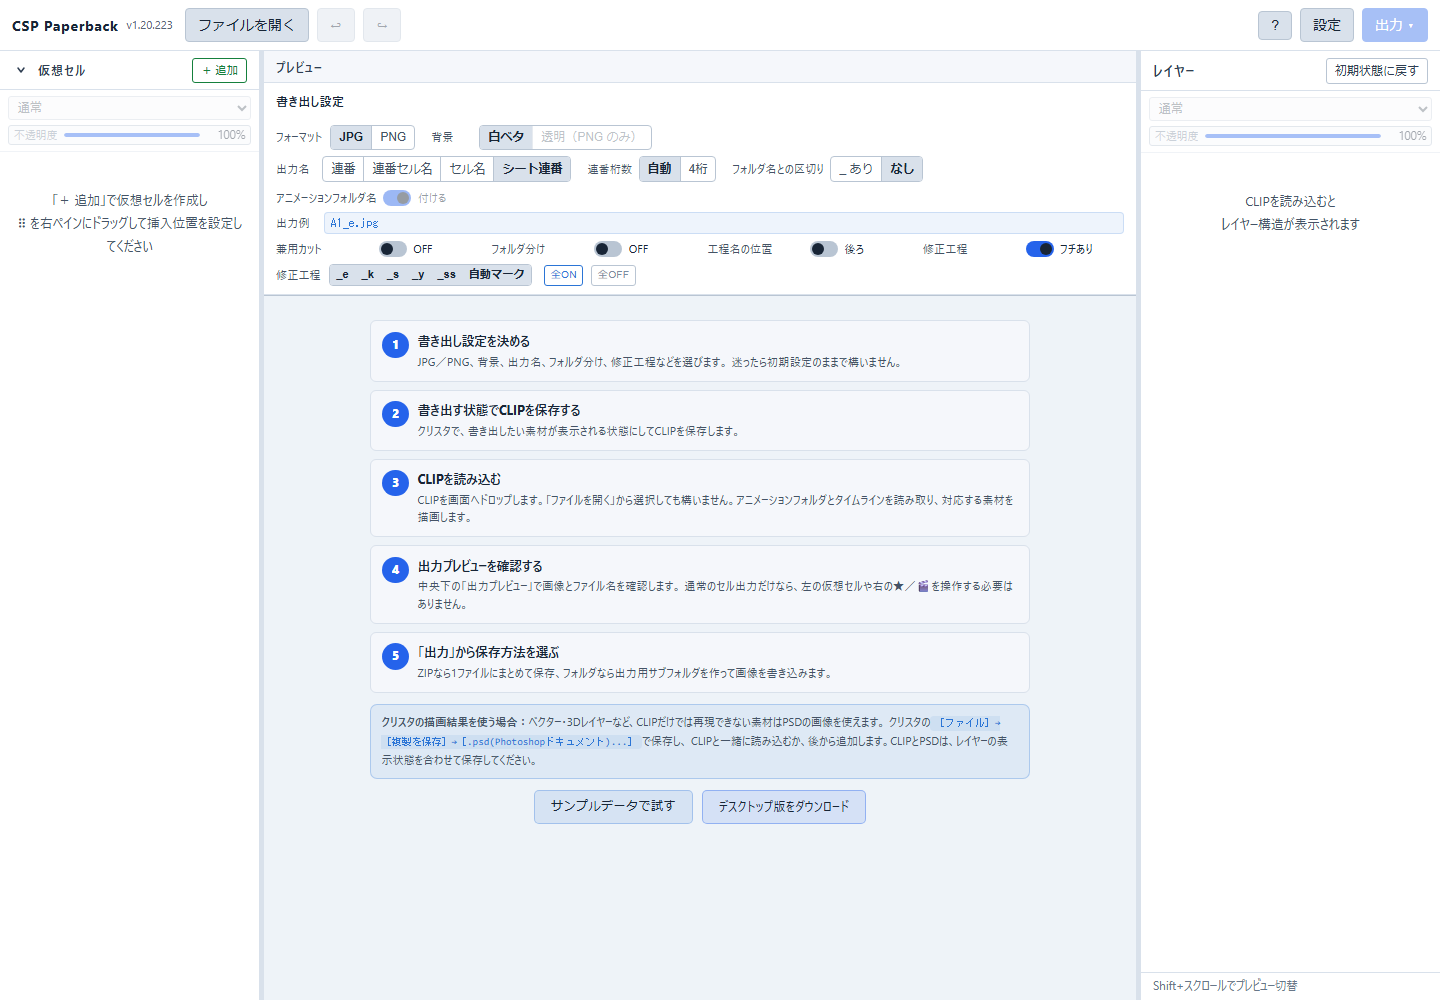
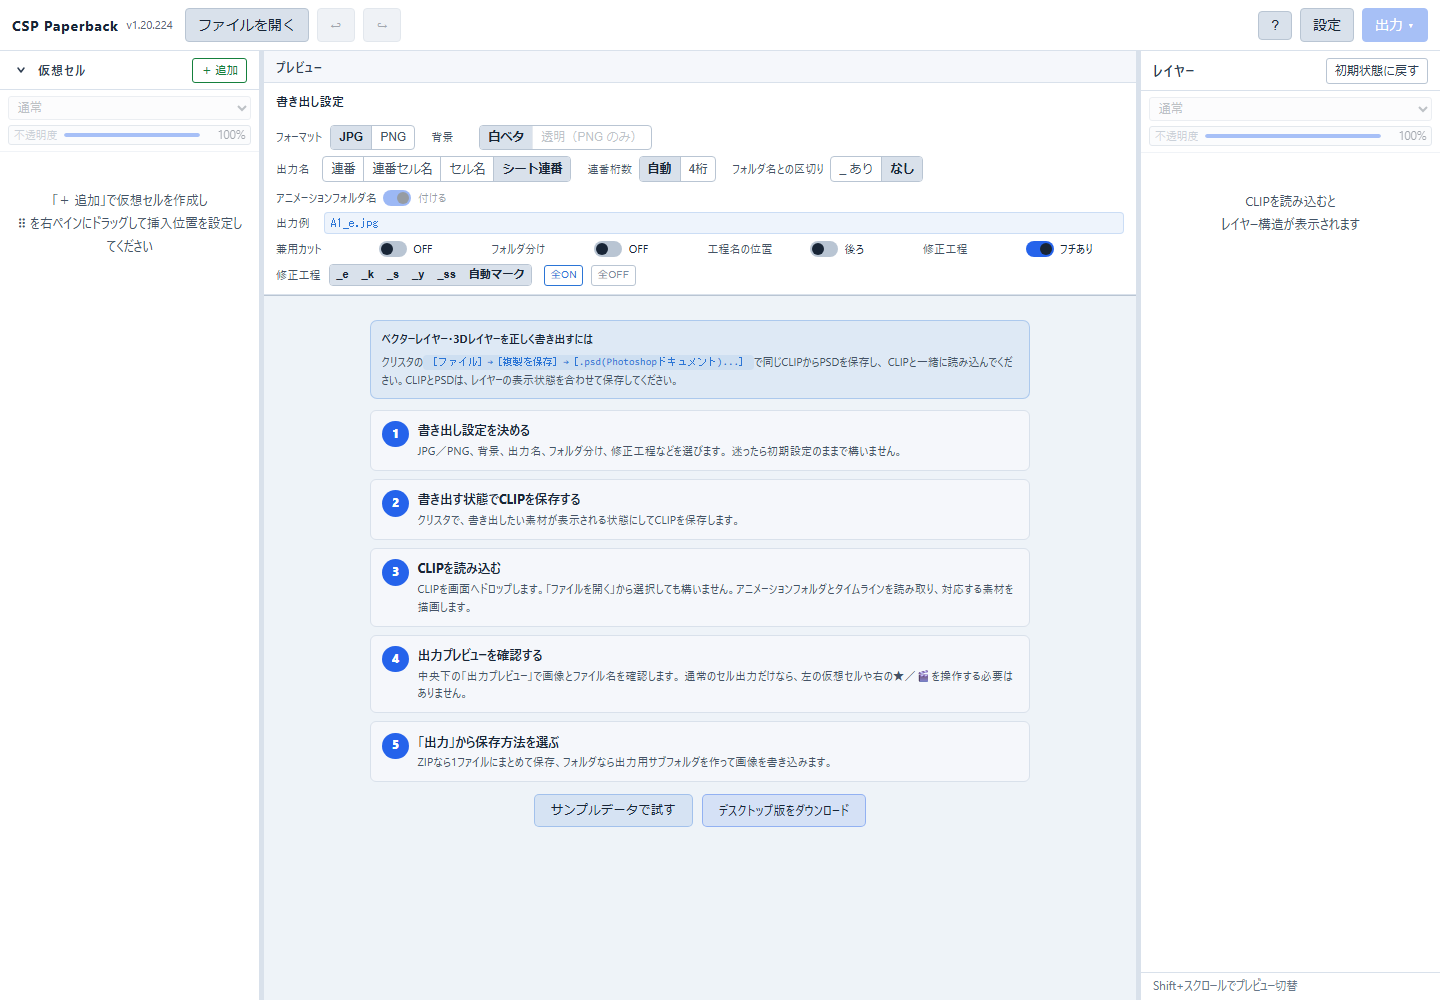
fix: exclude light-table references from CLIP materials

Changed region(s): [[0.25, 0.558, 0.7188, 0.837], [0.25, 0.31, 0.7188, 0.527]]

diff --git a/src/test/engine/clip-import.test.ts b/src/test/engine/clip-import.test.ts
@@ -59,6 +59,45 @@ describe('CLIP native structure and timeline', () => {
     expect(() => buildClipLayerTree(clip, { width: clip.width, height: clip.height }, clip.timelines[0], DEFAULT_PROJECT_SETTINGS)).toThrow('一致しません')
   })
 
+  it('excludes light-table references from the material tree without removing their source cels', async () => {
+    const db = new SQL.Database()
+    let bytes: Buffer
+    try {
+      db.run(`
+        CREATE TABLE Canvas (CanvasRootFolder INTEGER, CanvasWidth INTEGER, CanvasHeight INTEGER, CanvasUnit INTEGER);
+        INSERT INTO Canvas VALUES (1, 16, 16, 0);
+        CREATE TABLE Layer (MainId INTEGER, LayerUuid TEXT, LayerName TEXT, LayerFolder INTEGER,
+          LayerType INTEGER, LayerFirstChildIndex INTEGER, LayerNextIndex INTEGER, LayerVisibility INTEGER,
+          LightTableReferCell INTEGER, LinkLayerUUID TEXT, AnimationFolder INTEGER);
+        INSERT INTO Layer VALUES
+          (1, '', '', 1, 256, 2, 0, 1, NULL, NULL, NULL),
+          (2, '00000000000000000000000000000002', 'A', 1, 0, 3, 5, 1, NULL, NULL, 1),
+          (3, '00000000000000000000000000000003', '1', 0, 1, 0, 4, 1, NULL, NULL, NULL),
+          (4, '00000000000000000000000000000004', '2', 0, 1, 0, 0, 1, NULL, NULL, NULL),
+          (5, '00000000000000000000000000000005', '1', 0, 10016, 0, 6, 1, 1, '00000000000000000000000000000003', NULL),
+          (6, '00000000000000000000000000000006', 'frame', 0, 1, 0, 7, 1, 0, NULL, NULL),
+          (7, '00000000000000000000000000000007', 'external reference', 0, 10016, 0, 0, 1, 1, NULL, NULL);
+      `)
+      const database = db.export()
+      bytes = Buffer.alloc(40 + database.length)
+      bytes.write('CSFCHUNK')
+      bytes.write('CHNKSQLi', 24)
+      bytes.writeBigUInt64BE(BigInt(database.length), 32)
+      bytes.set(database, 40)
+    } finally { db.close() }
+    const native = await parseClipDocument(bytes, SQL, false)
+    expect(native.layers.map(l => l.name)).toEqual(['frame', 'A'])
+    expect(native.layers[1].children.map(l => l.name)).toEqual(['2', '1'])
+    expect(native.layers[1].isAnimationFolder).toBe(true)
+    expect(native.diagnostics).toEqual([])
+    const psd = { width: 16, height: 16, children: [
+      { name: 'A', children: [{ name: '1' }, { name: '2' }] }, { name: 'frame' },
+    ] }
+    const tree = buildClipLayerTree(native, psd, undefined, DEFAULT_PROJECT_SETTINGS)
+    expect(all(tree).map(l => l.originalName)).toEqual(['frame', 'A', '2', '1'])
+    expect(tree[1].children[1].id).toBe('clip:00000000000000000000000000000003')
+  })
+
   it('reads the bundled template including nine A folders and shifted motion clips', async () => {
     const template = await parseClipDocument(readFileSync('public/templates/csp-paperback-sample-template.clip'), SQL, false)
     expect(Object.keys(template.timelines[0].bindings)).toHaveLength(9)

diff --git a/src/components/help/QuickStartGuide.tsx b/src/components/help/QuickStartGuide.tsx
@@ -45,6 +45,12 @@ export function QuickStartGuide({
 
   return (
     <div className={`${styles.guide} ${styles[variant]}`}>
+      <div className={styles.callout}>
+        <strong>ベクターレイヤー・3Dレイヤーを正しく書き出すには</strong>
+        クリスタの<span className={styles.menuPath}>{ja.input.psdMenu}</span>で同じCLIPからPSDを保存し、
+        CLIPと一緒に読み込んでください。{ja.input.psdVisibility}
+      </div>
+
       <div className={styles.route}>
         <Step
           number={1}
@@ -104,13 +110,6 @@ export function QuickStartGuide({
         >
           ZIPなら1ファイルにまとめて保存、フォルダなら出力用サブフォルダを作って画像を書き込みます。
         </Step>
-      </div>
-
-      <div className={styles.callout}>
-        <strong>クリスタの描画結果を使う場合：</strong>
-        ベクター・3Dレイヤーなど、CLIPだけでは再現できない素材はPSDの画像を使えます。
-        クリスタの<span className={styles.menuPath}>{ja.input.psdMenu}</span>で保存し、
-        CLIPと一緒に読み込むか、後から追加します。{ja.input.psdVisibility}
       </div>
 
       {sampleAction && <div className={styles.actions}>{sampleAction}</div>}

diff --git a/src/utils/clip/parser.ts b/src/utils/clip/parser.ts
@@ -55,6 +55,13 @@ export async function parseClipDocument(bytes: Uint8Array, SQL: SqlJsStatic, inc
         const row = layersById.get(next)
         check(row && !visited.has(next), 'レイヤー参照の循環または欠落があります')
         visited.add(next)
+        // Light-table references share the layer sibling list, but are drawing aids,
+        // not canvas artwork. Their saved previews would otherwise cover every cel
+        // and introduce extra layers absent from CSP's PSD export.
+        if (num(row, 'LightTableReferCell')) {
+          next = num(row, 'LayerNextIndex')
+          continue
+        }
         const key = uuid(row.LayerUuid)
         check(/^[0-9a-f]{32}$/.test(key) && !nativeRows.has(key), 'レイヤーUUIDが不正または重複しています')
         nativeRows.set(key, row)

diff --git a/src/components/help/QuickStartGuide.module.css b/src/components/help/QuickStartGuide.module.css
@@ -97,7 +97,7 @@
 }
 
 .callout {
-  margin-top: 1rem;
+  margin-bottom: 1rem;
   padding: 0.8rem 0.9rem;
   border: 1px solid rgba(var(--color-info-rgb), 0.28);
   border-radius: 7px;
@@ -107,8 +107,14 @@
   line-height: 1.65;
 }
 
+.callout strong {
+  display: block;
+  margin-bottom: 0.25rem;
+  color: var(--color-text-primary);
+}
+
 .startup .callout {
-  margin-top: 0.65rem;
+  margin-bottom: 0.65rem;
   padding: 0.55rem 0.65rem;
   font-size: 0.69rem;
 }
